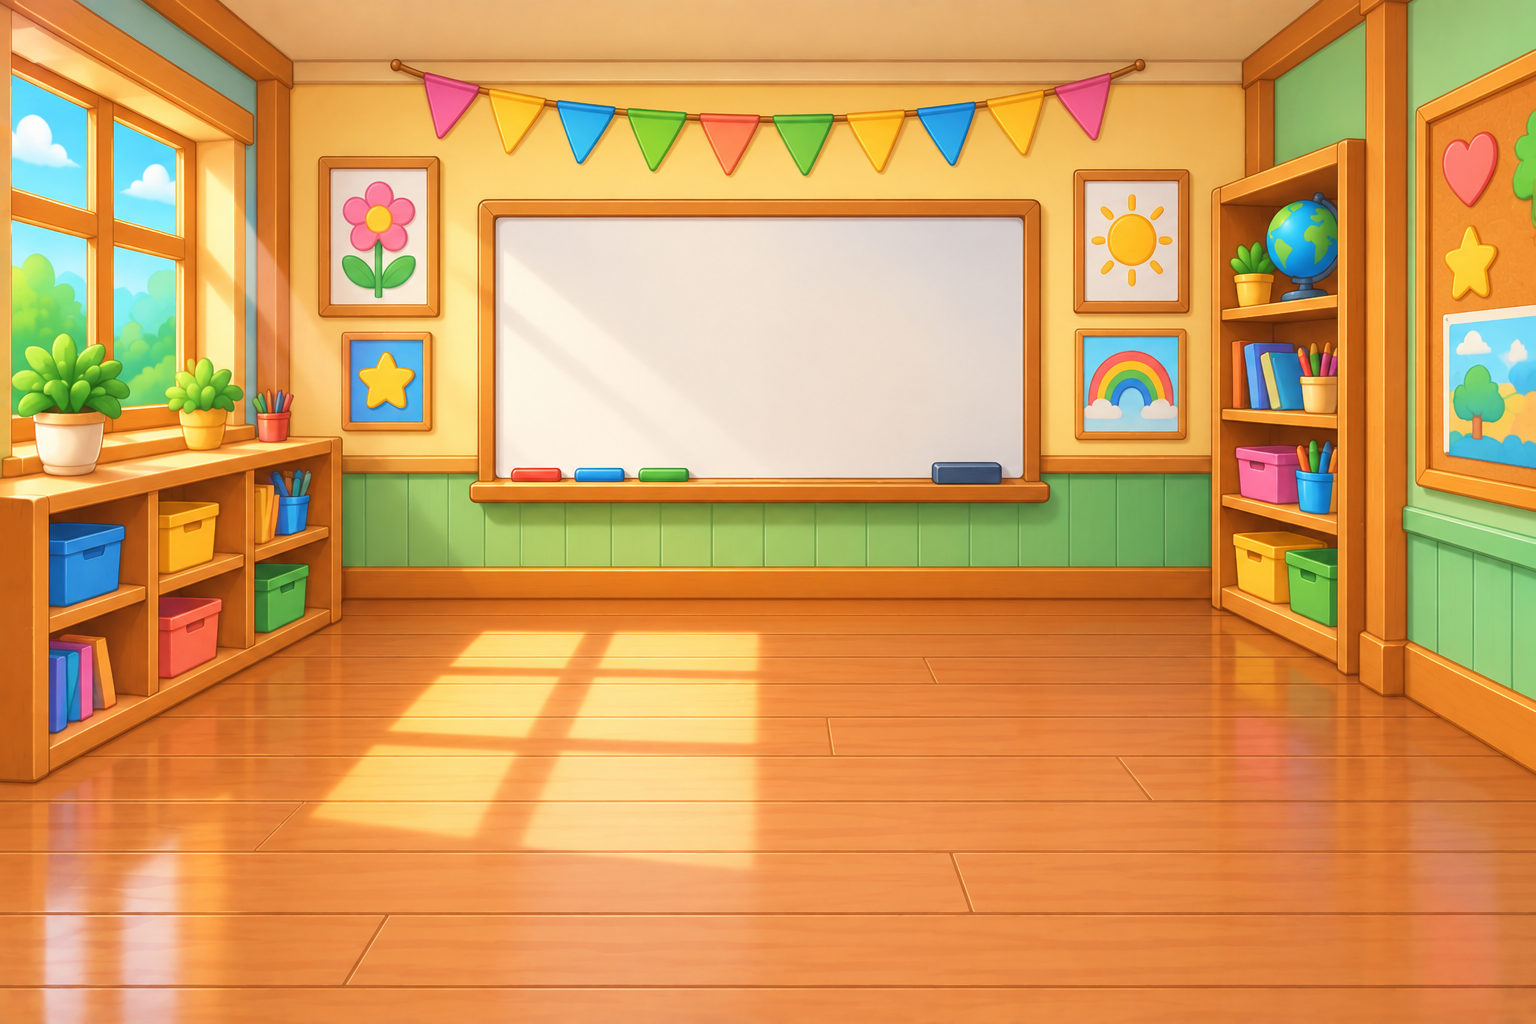
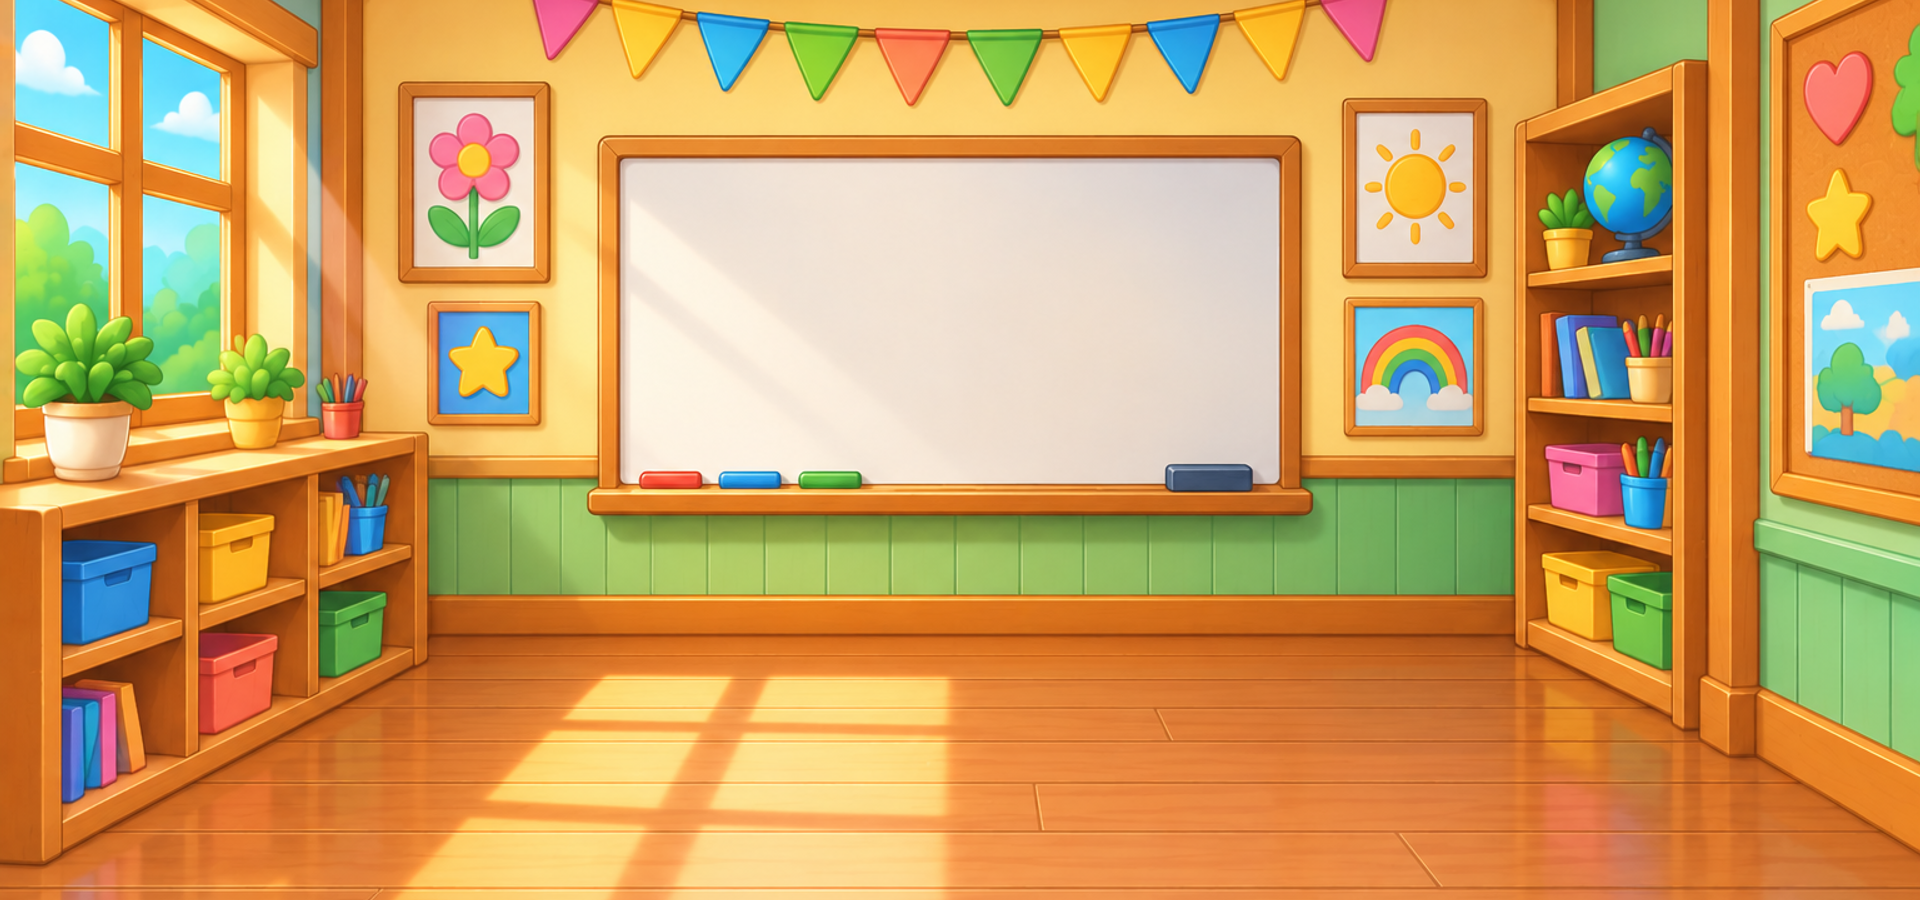
fix: session-end Home honours tutorial (Map at GoToStore, else School list); 1920x900 School list backdrop; drop redundant tile sizeDelta

diff --git a/tools/art-import/import-activity-art.js b/tools/art-import/import-activity-art.js
@@ -8,7 +8,13 @@ const size = 1024;
 const radius = 120;
 
 async function backdrop() {
-  fs.copyFileSync(path.join(downloads, 'School_background.png'), path.join(root, 'world/school_list_bg.png'));
+  // Same 1920x900 frame as map_bg / school_bg: cover-resize to 1920 wide, then crop vertically.
+  const src = path.join(downloads, 'School_background.png');
+  const meta = await sharp(src).metadata();
+  const height = Math.round(meta.height * 1920 / meta.width);
+  const top = Math.round((height - 900) * 0.3);
+  const resized = await sharp(src).resize(1920, height).toBuffer();
+  await sharp(resized).extract({ left: 0, top, width: 1920, height: 900 }).png().toFile(path.join(root, 'world/school_list_bg.png'));
 }
 
 async function countTile() {

diff --git a/EvasLearningWorld/Assets/Eva/Tests/CountScreenHelpTests.cs b/EvasLearningWorld/Assets/Eva/Tests/CountScreenHelpTests.cs
@@ -186,5 +186,27 @@ namespace EvasLearningWorld.Tests
             yield return WaitUntil(() => _game.Progress.CountIntroSeen, Timeout, "CountIntroSeen to be set once the intro finishes");
             yield return WaitUntil(() => AnyTileInteractable(_canvas), Timeout, "the question phase to start after the intro");
         }
+
+        // The session-end Home button returns to the activity list; during the tutorial's GoToStore step it goes
+        // to the Map instead so the first-run Store hint still fires.
+        [UnityTest]
+        public IEnumerator SessionHomeButtonOpensSchoolListOutsideTheTutorialStep()
+        {
+            _game.Progress.Tutorial = TutorialStep.Done;
+            _game.Navigator.Show(ScreenId.Count);
+            yield return Tick();
+            Screen(_canvas).Find("EndPanel/SessionHomeButton").GetComponent<UnityEngine.UI.Button>().onClick.Invoke();
+            Assert.That(_game.Navigator.Current, Is.EqualTo(ScreenId.School));
+        }
+
+        [UnityTest]
+        public IEnumerator SessionHomeButtonOpensMapAtGoToStore()
+        {
+            _game.Progress.Tutorial = TutorialStep.GoToStore;
+            _game.Navigator.Show(ScreenId.Count);
+            yield return Tick();
+            Screen(_canvas).Find("EndPanel/SessionHomeButton").GetComponent<UnityEngine.UI.Button>().onClick.Invoke();
+            Assert.That(_game.Navigator.Current, Is.EqualTo(ScreenId.Map));
+        }
     }
 }

diff --git a/EvasLearningWorld/Assets/Eva/App/Screens/CountScreen.cs b/EvasLearningWorld/Assets/Eva/App/Screens/CountScreen.cs
@@ -626,9 +626,16 @@ namespace EvasLearningWorld.App
             EvaUi.IconButton(_endPanel.transform, "ReplayButton", EvaUi.Sprite("icons/replay"), new Vector2(0.5f, 0.5f),
                 EndButtonPositions[0], EndButtonSize, StartNewSession);
             EvaUi.IconButton(_endPanel.transform, "SessionHomeButton", EvaUi.Sprite("icons/home"), new Vector2(0.5f, 0.5f),
-                EndButtonPositions[1], EndButtonSize, () => _game.Navigator.Show(ScreenId.School));
+                EndButtonPositions[1], EndButtonSize, GoHomeAfterSession);
 
             _endPanel.SetActive(false);
+        }
+
+        // During the first-run tutorial the Map's Store hint must still fire, so Home goes to the Map then;
+        // otherwise back to the activity list this screen was opened from.
+        private void GoHomeAfterSession()
+        {
+            _game.Navigator.Show(_game.Progress.Tutorial == TutorialStep.GoToStore ? ScreenId.Map : ScreenId.School);
         }
 
         private void SetSessionEnded(bool ended)

diff --git a/EvasLearningWorld/Assets/Eva/App/Screens/BuildingScreen.cs b/EvasLearningWorld/Assets/Eva/App/Screens/BuildingScreen.cs
@@ -32,9 +32,8 @@ namespace EvasLearningWorld.App
             for (var i = 0; i < activities.Count; i++)
             {
                 var activity = activities[i];
-                var button = EvaUi.IconButton(Root, "Tile_" + activity.Id, EvaUi.Sprite(activity.IconSprite),
+                EvaUi.IconButton(Root, "Tile_" + activity.Id, EvaUi.Sprite(activity.IconSprite),
                     new Vector2(0.5f, 0.5f), new Vector2(tiles[i].X, tiles[i].Y), tiles[i].Side, () => Open(activity));
-                ((RectTransform)button.transform).sizeDelta = new Vector2(tiles[i].Side, tiles[i].Side);
             }
         }
 
